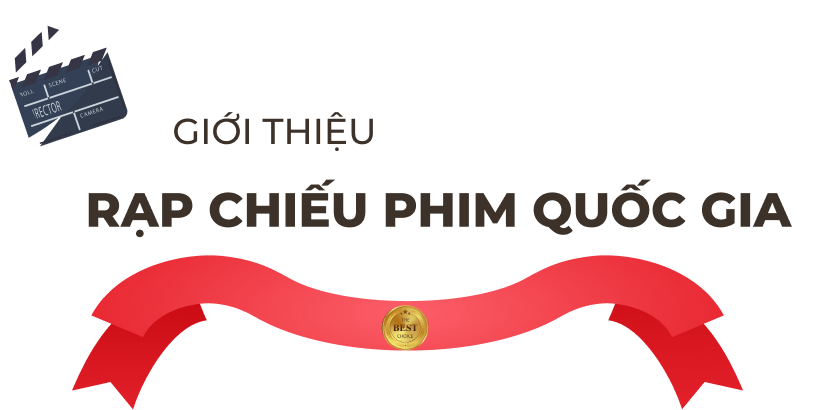
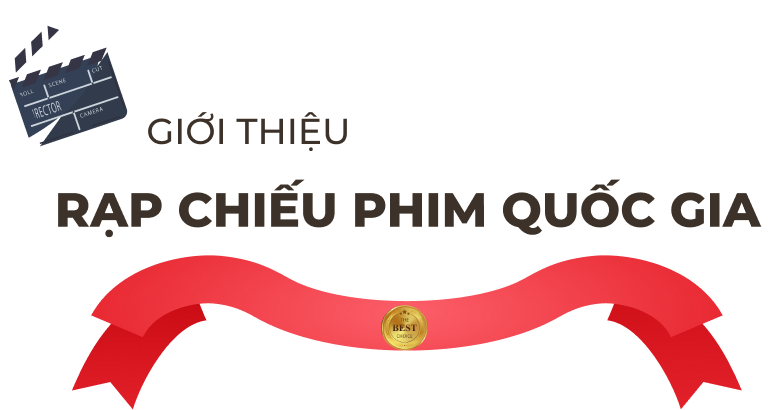
done

diff --git a/js/theme.js b/js/theme.js
@@ -14,6 +14,11 @@ const loginFacebookBtn = document.getElementById("loginFacebookBtn");
 const registerFacebookBtn = document.getElementById("registerFacebookBtn");
 const newsHeadingLines = document.querySelectorAll(".news__heading_line");
 const pricePageTitleLines = document.querySelectorAll(".price__pageTitle_line");
+const introductionPageTitleLines = document.querySelectorAll(".introduction__pageTitle_line");
+const blockParas = document.querySelectorAll(".block_para");
+const dashLines = document.querySelectorAll(".dashline");
+const title_img = document.getElementById("title_img");
+const pageTitle_icon = document.getElementById("pageTitle_icon");
 
 const handleDarkMode = () => {
   const setTheme = document.body;
@@ -26,6 +31,10 @@ const handleDarkMode = () => {
     ball.style.transform = "translate(39px)";
     footer.style.background = "#0000002e";
 
+    title_img.src = "./assets/img/myheaderdark.png";
+    pageTitle_icon.src = "./assets/svg/cameradark.svg"
+
+
     homeNewsLines.forEach((homeNewsLine) => {
       homeNewsLine.style.backgroundColor = "white";
     });
@@ -36,6 +45,18 @@ const handleDarkMode = () => {
 
     pricePageTitleLines.forEach((pricePageTitleLine) => {
       pricePageTitleLine.style.backgroundColor = "white";
+    });
+
+    introductionPageTitleLines.forEach((introductionPageTitleLine) => {
+      introductionPageTitleLine.style.backgroundColor = "white";
+    });
+
+    blockParas.forEach((blockPara) => {
+      blockPara.style.borderLeft = "2px solid white";
+    });
+
+    dashLines.forEach((dashLine) => {
+      dashLine.style.borderBottom = "2px dashed white";
     });
 
     controlBtns.forEach((controlBtn) => {
@@ -93,6 +114,8 @@ const handleDarkMode = () => {
     theme = "lightMode";
     ball.style.transform = "translate(0px)";
     footer.style.background = "var(--darkBrown)";
+    title_img.src ="./assets/img/myheader.png";
+    pageTitle_icon.src = "./assets/svg/camera.svg"
 
     homeNewsLines.forEach((homeNewsLine) => {
       homeNewsLine.style.backgroundColor = "var(--darkBrown)";
@@ -104,6 +127,18 @@ const handleDarkMode = () => {
 
     pricePageTitleLines.forEach((pricePageTitleLine) => {
       pricePageTitleLine.style.backgroundColor = "var(--darkBrown)";
+    });
+
+    blockParas.forEach((blockPara) => {
+      blockPara.style.borderLeft = "2px solid var(--darkBrown)";
+    });
+
+    dashLines.forEach((dashLine) => {
+      dashLine.style.borderBottom = "2px dashed var(--darkBrown)";
+    });
+
+    introductionPageTitleLines.forEach((introductionPageTitleLine) => {
+      introductionPageTitleLine.style.backgroundColor = "var(--darkBrown)";
     });
 
     controlBtns.forEach((controlBtn) => {
@@ -181,6 +216,18 @@ if (getTheme === "darkMode") {
     pricePageTitleLine.style.backgroundColor = "white";
   });
 
+  introductionPageTitleLines.forEach((introductionPageTitleLine) => {
+    introductionPageTitleLine.style.backgroundColor = "white";
+  });
+
+  blockParas.forEach((blockPara) => {
+    blockPara.style.borderLeft = "2px solid white";
+  });
+
+  dashLines.forEach((dashLine) => {
+    dashLine.style.borderBottom = "2px dashed white";
+  });
+
   controlBtns.forEach((controlBtn) => {
     controlBtn.style.color = "white";
     controlBtn.addEventListener("mouseover", () => {
@@ -231,4 +278,7 @@ if (getTheme === "darkMode") {
 
   registerFacebookBtn.style.backgroundColor = "white";
   registerFacebookBtn.style.color = "black";
+
+  title_img.src = "./assets/img/myheaderdark.png";
+  pageTitle_icon.src = "./assets/svg/cameradark.svg"
 }

diff --git a/introduction.html b/introduction.html
@@ -553,7 +553,7 @@
       <!-- IntroductionPage -->
       <div class="introduction">
         <div class="introduction__title">
-          <img src="./assets/img/myheader.png" alt="" />
+          <img src="./assets/img/myheader.png" alt="" id="title_img"/>
         </div>
 
         <div class="introduction__pageTitle_icon">
@@ -563,6 +563,7 @@
             alt=""
             height="60px"
             width="60px"
+            id="pageTitle_icon"
           />
           <div class="introduction__pageTitle_line"></div>
         </div>

diff --git a/assets/css/introduction.css b/assets/css/introduction.css
@@ -11,7 +11,7 @@ div.introduction__title {
 }
 
 div.introduction__title img {
-  width: 45%;
+  width: 515px;
 }
 
 .introduction__line {
@@ -61,6 +61,7 @@ div.introduction__title img {
   overflow: hidden;
   position: relative;
   border-radius: 40px;
+  box-sizing: border-box;
   border: 5px solid var(--primaryRed);
 }
 
@@ -233,6 +234,7 @@ div.introduction__title img {
   height: 304px;
   border-radius: 40px;
   padding: 0;
+  box-sizing: border-box;
   border: 5px solid var(--primaryRed);
 }
 
